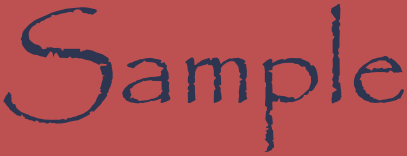
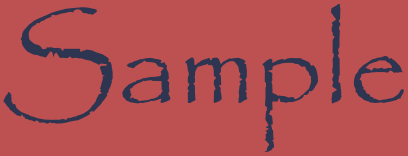
updated cropper to crop euqally on both sides

diff --git a/src/ImageCropper.java b/src/ImageCropper.java
@@ -55,8 +55,8 @@ class ImageCropper {
         }
 
         int topCrop = 0;
-        int color = img.getRGB(0, 0);
         for (int y = 0; y < img.getHeight(); y++) {
+            int color = img.getRGB(0, y);
             boolean removableLine = true;
             for (int x = 0; x < img.getWidth(); x++) {
                 int c = img.getRGB(x, y);
@@ -74,6 +74,7 @@ class ImageCropper {
 
         int leftCrop = 0;
         for (int x = 0; x < img.getWidth(); x++) {
+            int color = img.getRGB(x, 0);
             boolean removableLine = true;
             for (int y = 0; y < img.getHeight(); y++) {
                 int c = img.getRGB(x, y);
@@ -90,7 +91,8 @@ class ImageCropper {
         }
 
         int bottomCrop = 0;
-        for (int y = img.getHeight() - 1; y > 0; y--) {
+        for (int y = img.getHeight() - 1; y > topCrop; y--) {
+            int color = img.getRGB(0, y);
             boolean removableLine = true;
             for (int x = 0; x < img.getWidth(); x++) {
                 int c = img.getRGB(x, y);
@@ -107,7 +109,8 @@ class ImageCropper {
         }
 
         int rightCrop = 0;
-        for (int x = img.getWidth() - 1; x > 0; x--) {
+        for (int x = img.getWidth() - 1; x > leftCrop; x--) {
+            int color = img.getRGB(x, 0);
             boolean removableLine = true;
             for (int y = 0; y < img.getHeight(); y++) {
                 int c = img.getRGB(x, y);
@@ -140,7 +143,13 @@ class ImageCropper {
             return;
         }
 
-        BufferedImage croppedImage = img.getSubimage(leftCrop, topCrop, img.getWidth() - leftCrop - rightCrop, img.getHeight() - topCrop - bottomCrop);
+        int horizontalCrop = Math.min(leftCrop, rightCrop);
+        int verticalCrop = Math.min(topCrop, bottomCrop);
+
+        BufferedImage croppedImage = img.getSubimage(
+                horizontalCrop, verticalCrop,
+                img.getWidth() - 2 * horizontalCrop,
+                img.getHeight() - 2 * verticalCrop);
 
         File outputFile = new File(outputPath.toFile() + "/" + f.getName());
 
